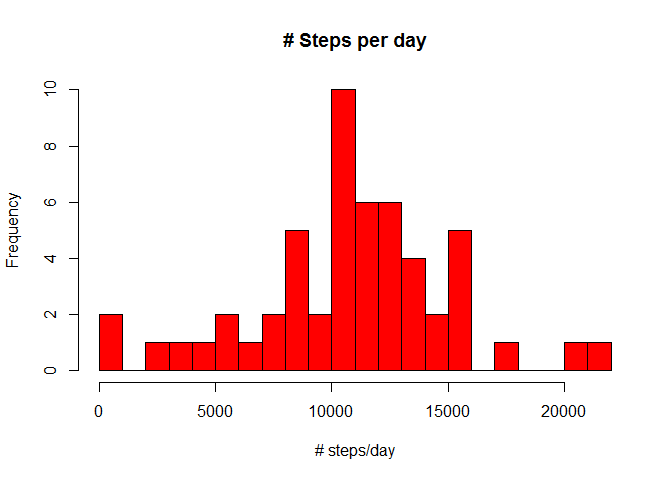
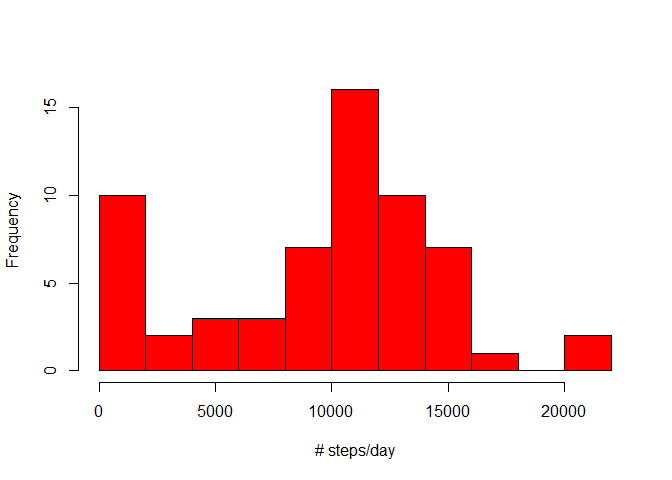
2nd commit
forgot 2nd histogram plot

diff --git a/PA1_template.html b/PA1_template.html
@@ -121,6 +121,22 @@ data_imp$wd_we &lt;- as.factor(ifelse(!weekdays(as.Date(data_imp$date)) %in% c(&
 df_merge$steps.x[is.na(df_merge$steps.x)] &lt;- df_merge$steps.y</code></pre>
 <pre><code>## Warning in df_merge$steps.x[is.na(df_merge$steps.x)] &lt;- df_merge$steps.y:
 ## number of items to replace is not a multiple of replacement length</code></pre>
+<p>plotting a new histogram with the aggregated imputed data:</p>
+<pre class="r"><code>agg_imp &lt;- aggregate(steps.x ~ date, data=df_merge, FUN=sum)
+hist(agg_imp$steps.x, breaks=10, col=&quot;Red&quot;, main=&quot;&quot;, xlab=&quot;# steps/day&quot;)</code></pre>
+<div class="figure">
[1 lines of base64/hex data omitted]
+</div>
+<pre class="r"><code>summary(agg_imp)</code></pre>
+<pre><code>##          date       steps.x     
+##  2012-10-01: 1   Min.   :   41  
+##  2012-10-02: 1   1st Qu.: 6778  
+##  2012-10-03: 1   Median :10395  
+##  2012-10-04: 1   Mean   : 9371  
+##  2012-10-05: 1   3rd Qu.:12811  
+##  2012-10-06: 1   Max.   :21194  
+##  (Other)   :55</code></pre>
+<p>From observations of both the histogram plot and the summary, it appears that imputing the NAs in the original data has lowered the mean and median values significantly.</p>
 </div>
 <div id="are-there-differences-in-activity-patterns-between-weekdays-and-weekends" class="section level2">
 <h2>Are there differences in activity patterns between weekdays and weekends?</h2>
@@ -131,7 +147,8 @@ xyplot(steps.x ~ interval | wd_we, data=df_merge, layout=c(2,1), type=&quot;l&qu
 <div class="figure">
[1 lines of base64/hex data omitted]
 </div>
-<p>Looking at the panel plots, there are distinct differences between the measurements made during the weekday and those of the weekend. Step activity is significantly more in mornings after 5am where on the weekend, step activity doesn’t really begin until after 8-9am. The data also shows a common burst of activity that begins around 3pm for both data sets. However, the weekend data shows that step activity maintained for another 2 hrs until 5pm</p>
+<p>Looking at the panel plots, there are distinct differences between the measurements made during the weekday and those of the weekend. Weekday step activity is significantly higher in the mornings after 5am, where weekend step activity doesn’t really begin until after 8-9am.</p>
+<p>The data also shows a common burst of activity that begins around 3pm for both data sets. Both data sets also appear to have both an equal duration and pause between activity bursts.</p>
 </div>
 
 

diff --git a/PA1_template.md b/PA1_template.md
@@ -117,10 +117,34 @@ df_merge$steps.x[is.na(df_merge$steps.x)] <- df_merge$steps.y
 ## number of items to replace is not a multiple of replacement length
 ```
 
+plotting a new histogram with the aggregated imputed data:
+
+```r
+agg_imp <- aggregate(steps.x ~ date, data=df_merge, FUN=sum)
+hist(agg_imp$steps.x, breaks=10, col="Red", main="", xlab="# steps/day")
+```
+
+![](./PA1_template_files/figure-html/histo2-1.png) 
+
+```r
+summary(agg_imp)
+```
+
+```
+##          date       steps.x     
+##  2012-10-01: 1   Min.   :   41  
+##  2012-10-02: 1   1st Qu.: 6778  
+##  2012-10-03: 1   Median :10395  
+##  2012-10-04: 1   Mean   : 9371  
+##  2012-10-05: 1   3rd Qu.:12811  
+##  2012-10-06: 1   Max.   :21194  
+##  (Other)   :55
+```
+
+From observations of both the histogram plot and the summary, it appears that imputing the NAs in the original data has lowered the mean and median values significantly.
+
 
 ## Are there differences in activity patterns between weekdays and weekends?
-
-
 create a panel plot showing a time series for each set of data:
 
 
@@ -132,8 +156,10 @@ xyplot(steps.x ~ interval | wd_we, data=df_merge, layout=c(2,1), type="l")
 
 ![](./PA1_template_files/figure-html/panelplot-1.png) 
 
+Looking at the panel plots, there are distinct differences between the measurements made during the weekday and those of the weekend. Weekday step activity is significantly higher in the mornings after 5am, where weekend step activity doesn't really begin until after 8-9am.
 
-Looking at the panel plots, there are distinct differences between the measurements made during the weekday and those of the weekend. Step activity is significantly more in mornings after 5am where on the weekend, step activity doesn't really begin until after 8-9am. The data also shows a common burst of activity that begins around 3pm for both data sets. However, the weekend data shows that step activity maintained for another 2 hrs until 5pm
+The data also shows a common burst of activity that begins around 3pm for both data sets.
+Both data sets also appear to have both an equal duration and pause between activity bursts. 
 
 
 
